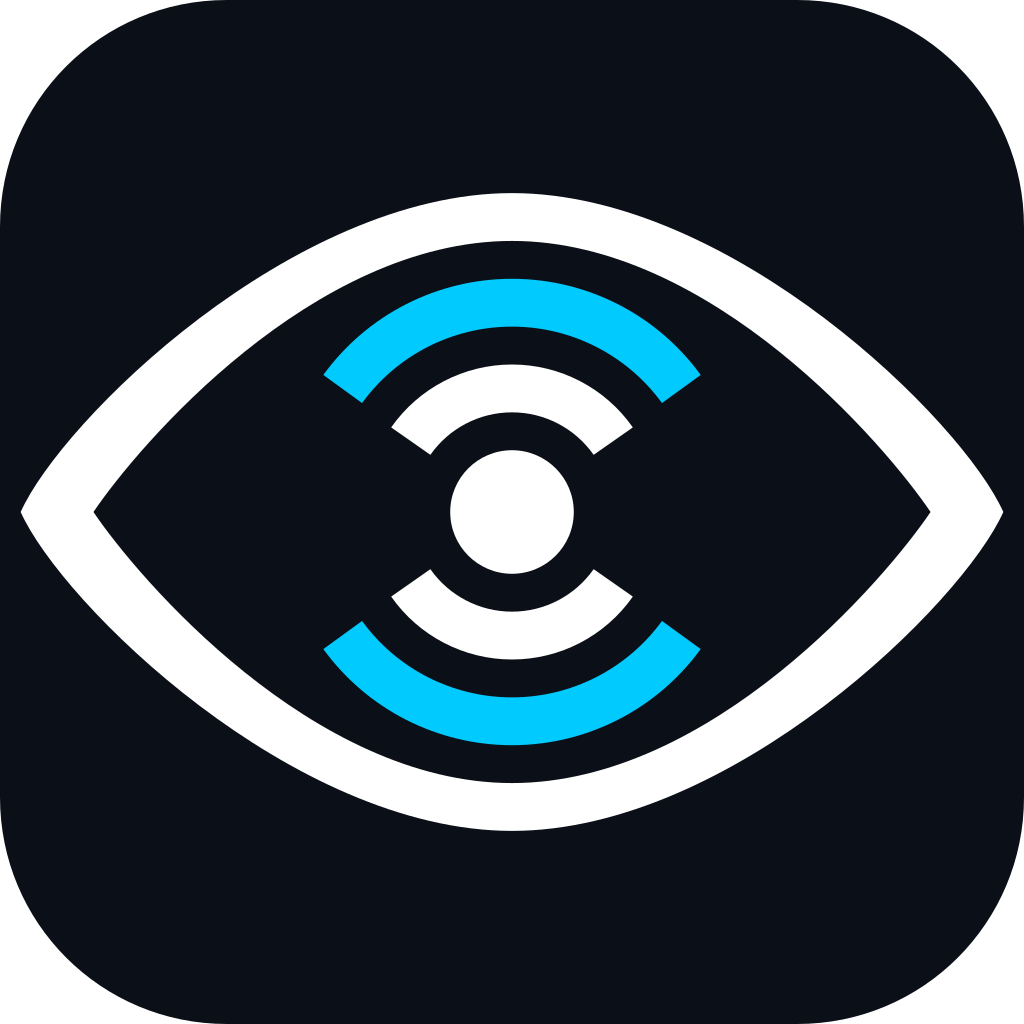
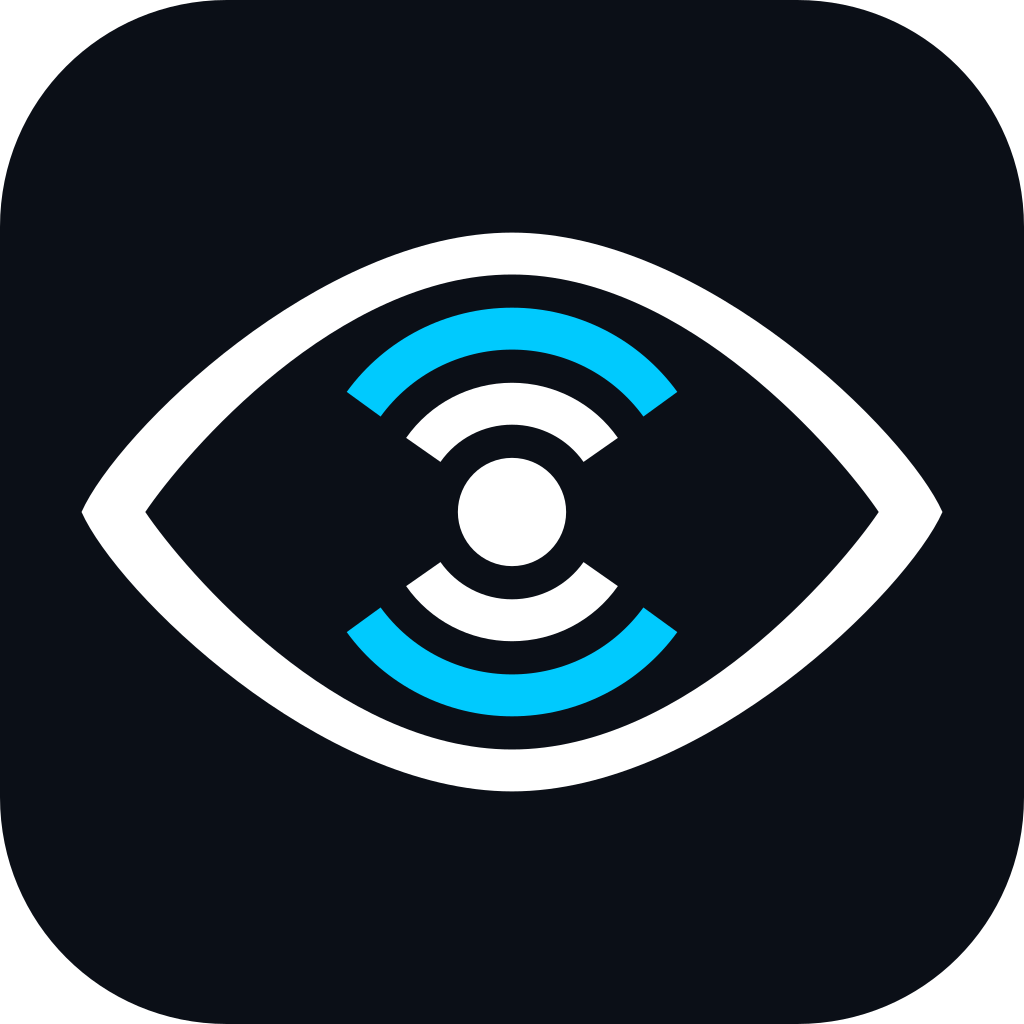
Branding: mark at 84% of the app tile width
96% crowded the tile edges; 84% sits between that and the original 72%.

Changed region(s): [[0.0, 0.1875, 1.0, 0.8125]]

diff --git a/docs/branding/generate.py b/docs/branding/generate.py
@@ -99,7 +99,7 @@ def svg(w, h, body, view=None):
     )
 
 
-def tile(small=False, pad=1.09):
+def tile(small=False, pad=0.955):
     """App icon: the white mark on a dark rounded square, so it reads on both
     light and dark panels and menus."""
     s = pad
@@ -219,8 +219,8 @@ def main():
     write(j("bandsight-icon-small-dark.svg"), svg(560, 560, mark(WHITE, True)))
     write(j("bandsight-app-icon.svg"), svg(560, 560, tile()))
     write(j("bandsight-icon-badge.svg"), svg(560, 560, badge()))
-    write(j("bandsight-app-icon-small.svg"), svg(560, 560, tile(True, 1.09)))
-    write(j("bandsight-app-icon-micro.svg"), svg(560, 560, tile("micro", 1.09)))
+    write(j("bandsight-app-icon-small.svg"), svg(560, 560, tile(True, 0.955)))
+    write(j("bandsight-app-icon-micro.svg"), svg(560, 560, tile("micro", 0.955)))
     png(j("bandsight-icon.svg"), j("bandsight-icon.png"), 1024)
     png(j("bandsight-icon-dark.svg"), j("bandsight-icon-dark.png"), 1024)
     png(j("bandsight-app-icon.svg"), j("bandsight-app-icon.png"), 1024)
@@ -262,7 +262,7 @@ def main():
         subprocess.run(["magick", *icos, j("favicon.ico")], check=True)
         at = os.path.join(tmp, "at.svg")
         write(at, svg(180, 180, f'<rect width="180" height="180" fill="{TILE}"/>'
-                      f'<g transform="translate(3 3) scale({174 / 560:.5f})">{mark(WHITE)}</g>'))
+                      f'<g transform="translate(8.5 8.5) scale({163 / 560:.5f})">{mark(WHITE)}</g>'))
         png(at, j("apple-touch-icon.png"), 180)
 
     # hicolor theme icons for the launcher, window and tray.
